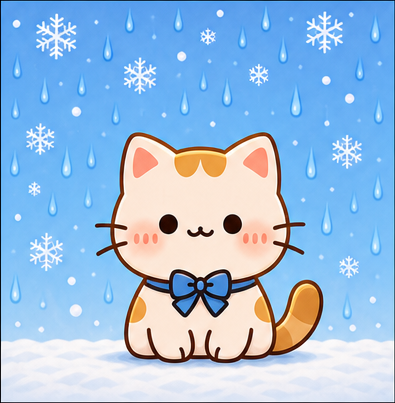
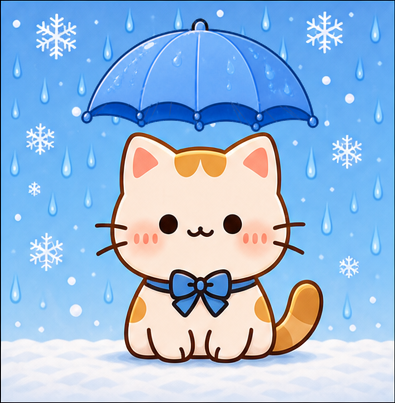
feat: 날씨 현재/7일 예보 조회 및 고양이 이미지 표시 기능 추가 - WeatherSection 추가 (현재 날씨 + 7일 예보 가로 스크롤) - weather_code(WMO) → 고양이 이미지 매핑 상수/유틸 추가 - 날씨 상태 저장용 store, 타입 정의 추가 - weather-api 응답 파싱 보완 - hooks → utils 로 순수 함수 이동 (useRegions → utils/regions) - 홈 화면 ScrollView 적용 - 천둥/비+천둥 고양이 이미지 추가, 진눈깨비 이미지에 우산 합성

Changed region(s): [[0.1823, 0.0298, 0.8203, 0.3275]]

diff --git a/src/constants/weather.ts b/src/constants/weather.ts
@@ -1,0 +1,119 @@
+import { ImageSourcePropType } from "react-native";
+
+/**
+ * Open-Meteo(WMO) weather_code 목록과 한글 설명
+ * https://open-meteo.com/en/docs (WMO Weather interpretation codes)
+ */
+export const WEATHER_CODES: Record<number, string> = {
+  0: "맑음",
+  1: "대체로 맑음",
+  2: "부분적으로 흐림",
+  3: "흐림",
+  45: "안개",
+  48: "짙은(착빙) 안개",
+  51: "약한 이슬비",
+  53: "이슬비",
+  55: "강한 이슬비",
+  56: "약한 어는 이슬비",
+  57: "강한 어는 이슬비",
+  61: "약한 비",
+  63: "비",
+  65: "강한 비",
+  66: "약한 어는 비",
+  67: "강한 어는 비",
+  71: "약한 눈",
+  73: "눈",
+  75: "강한 눈",
+  77: "싸락눈",
+  80: "약한 소나기",
+  81: "소나기",
+  82: "강한 소나기",
+  85: "약한 소낙눈",
+  86: "강한 소낙눈",
+  95: "뇌우",
+  96: "뇌우(약한 우박 동반)",
+  99: "뇌우(강한 우박 동반)",
+};
+
+/** 고양이 일러스트 카테고리 키 */
+export type WeatherImageKey =
+  | "sun"
+  | "cloudy"
+  | "rain"
+  | "rainSnow"
+  | "winter"
+  | "hail"
+  | "thunder"
+  | "rainThunder"
+  | "wind";
+
+/** 카테고리 -> 고양이 이미지 리소스 */
+export const WEATHER_IMAGES: Record<WeatherImageKey, ImageSourcePropType> = {
+  sun: require("@/assets/weather-sun.png"), // 맑음
+  cloudy: require("@/assets/weather-cloudy.png"), // 흐림/안개
+  rain: require("@/assets/weather-rain.png"), // 비/이슬비/소나기
+  rainSnow: require("@/assets/weather-rain-snow.png"), // 진눈깨비/어는 비
+  winter: require("@/assets/weather-winter.png"), // 눈
+  hail: require("@/assets/weather-hail.png"), // 우박(뇌우 동반)
+  thunder: require("@/assets/weather-thunder.png"), // 천둥(비 없는 뇌우) - 코드 직접 매칭 없음
+  rainThunder: require("@/assets/weather-rain-thunder.png"), // 비를 동반한 뇌우
+  wind: require("@/assets/weather-wind.png"), // 강풍 - weather_code 없음(wind_speed로 판단)
+};
+
+/**
+ * weather_code -> 고양이 이미지 카테고리 매칭
+ * 참고:
+ * - weather-thunder(비 없는 천둥)와 weather-wind(강풍)는 WMO weather_code에
+ *   대응되는 코드가 없습니다.
+ *   · 뇌우(95/96/99)는 보통 강수를 동반하므로 rainThunder/hail로 매칭했습니다.
+ *   · 강풍은 weather_code가 아닌 wind_speed_10m 값으로 별도 판단해야 합니다.
+ */
+export const WEATHER_CODE_TO_IMAGE: Record<number, WeatherImageKey> = {
+  // 맑음
+  0: "sun",
+  1: "sun",
+
+  // 구름/안개
+  2: "cloudy",
+  3: "cloudy",
+  45: "cloudy",
+  48: "cloudy",
+
+  // 이슬비
+  51: "rain",
+  53: "rain",
+  55: "rain",
+
+  // 어는 이슬비 -> 진눈깨비
+  56: "rainSnow",
+  57: "rainSnow",
+
+  // 비
+  61: "rain",
+  63: "rain",
+  65: "rain",
+
+  // 어는 비 -> 진눈깨비
+  66: "rainSnow",
+  67: "rainSnow",
+
+  // 눈
+  71: "winter",
+  73: "winter",
+  75: "winter",
+  77: "winter",
+
+  // 소나기
+  80: "rain",
+  81: "rain",
+  82: "rain",
+
+  // 소낙눈
+  85: "winter",
+  86: "winter",
+
+  // 뇌우
+  95: "rainThunder",
+  96: "hail",
+  99: "hail",
+};

diff --git a/src/components/organisms/WeatherSection/index.tsx b/src/components/organisms/WeatherSection/index.tsx
@@ -1,0 +1,67 @@
+import { useWeatherStore } from "@/stores/weather";
+import { getWeatherImage } from "@/utils/weather";
+import { FlatList, Image, Text, View } from "react-native";
+
+const WeatherSection = () => {
+  const { weatherData } = useWeatherStore();
+
+  const checkIsToday = (date: string) => {
+    const today = new Date().toISOString().split("T")[0];
+    return date === today;
+  }
+
+  const formatDate = (date: string) => {
+    if (checkIsToday(date)) {
+      return "오늘";
+    }
+
+    const month = parseInt(date.split("-")[1]);
+    const day = parseInt(date.split("-")[2]);
+    return `${month}/${day}`;
+  }
+
+  if (!weatherData) {
+    return null;
+  }
+
+  return (
+    <View style={{ width: "100%", alignItems: "center" }}>
+      <View style={{ width: "100%", alignItems: "center", gap: 3 }}>
+        <Text style={{ fontSize: 20, fontWeight: "bold" }}>현재 날씨</Text>
+        <Image
+         source={getWeatherImage(weatherData?.current.weatherCode ?? 0)}
+         style={{ width: 80, height: 80, borderRadius: 20 }}
+        />
+        <Text style={{ fontSize: 16, fontWeight: "bold" }}>{weatherData?.current.temperature}</Text>
+      </View>
+      <View style={{ width: "100%", height: 1, backgroundColor: "#A7A7A7", marginVertical: 5 }} />
+      <View style={{ width: "100%", paddingTop: 5 }}>
+        <FlatList
+         data={weatherData?.daily}
+         keyExtractor={(item) => item.date}
+         horizontal
+         showsHorizontalScrollIndicator={false}
+         style={{ width: "100%" }}
+         contentContainerStyle={{ gap: 12, paddingHorizontal: 15 }}
+         renderItem={({ item }) => (
+          <View style={{ alignItems: "center", gap: 4 }}>
+            <Text style={{ fontSize: 16, fontWeight: "bold" }}>{formatDate(item.date)}</Text>
+            <Image source={getWeatherImage(item.weatherCode)} style={{ width: 80, height: 80, borderRadius: 10 }} />
+            <View style={{ flexDirection: "row", gap: 4 }}>
+              <Text style={{ fontSize: 16 }}>최고:</Text>
+              <Text style={{ fontSize: 16, fontWeight: "bold" }}>{item.tempMax}</Text>
+            </View>
+            <View style={{ flexDirection: "row", gap: 4 }}>
+              <Text style={{ fontSize: 16 }}>최저:</Text>
+              <Text style={{ fontSize: 16, fontWeight: "bold" }}>{item.tempMin}</Text>
+            </View>
+          </View>
+         )}
+        />
+      </View>
+    </View>
+  );
+};
+
+
+export default WeatherSection

diff --git a/src/components/molecules/DistrictNameSelectModal/index.tsx b/src/components/molecules/DistrictNameSelectModal/index.tsx
@@ -1,24 +1,22 @@
 import { regions } from "@/constants/regions";
-import { useGetDistrictNameList } from "@/hooks/useRegions";
-import { getWeatherData } from "@/services/weather-api";
+import { getFetchWeatherData } from "@/services/weather-api";
 import { useModalStore } from "@/stores/modalStore";
 import { useRegionsStore } from "@/stores/regionsStore";
+import { useWeatherStore } from "@/stores/weather";
+import { getDistrictNameList } from "@/utils/regions";
 import { FlatList, Modal, Pressable, Text, View } from "react-native";
 
 const DistrictNameSelectModal = () => {
   const { openModal, setOpenModal } = useModalStore();
   const { selectedRegion, setSelectedRegion } = useRegionsStore();
-  
-  const getDistrictNameList = (cityName: string) => {
-    return useGetDistrictNameList(cityName);
-  }
+  const { setWeatherData } = useWeatherStore();
 
   const selectDistrictName = async (districtName: string) => {
     const data = regions.filter(region => region.cityName === selectedRegion?.cityName && region.districtName === districtName);
     setSelectedRegion(data[0]);
     setOpenModal(undefined);
-    const weatherData = await getWeatherData(data[0].lat, data[0].long);
-    
+    const weatherData = await getFetchWeatherData(data[0].lat, data[0].long);
+    setWeatherData(weatherData);
   }
 
   return (

diff --git a/src/app/index.tsx b/src/app/index.tsx
@@ -1,26 +1,32 @@
 import RegionSelectBtns from "@/components/molecules/RegionSelectBtns";
 import Modal from "@/components/organisms/Modal";
+import WeatherSection from "@/components/organisms/WeatherSection";
 import { BACKGROUND_IMAGE } from "@/constants/commons";
-import { ImageBackground, View } from "react-native";
+import { Dimensions, ImageBackground, ScrollView, View } from "react-native";
+
+const SCREEN_HEIGHT = Dimensions.get("window").height;
 
 export default function Index() {
   return (
     <ImageBackground
-    source={BACKGROUND_IMAGE}
-    style={{width: "100%", height: "100%" }}
-    resizeMode="cover"
-  >
-      <View style={{
-          position: "absolute",
-          top: "35%",
-          left: 0,
-          right: 0,
+      source={BACKGROUND_IMAGE}
+      style={{ width: "100%", height: "100%" }}
+      resizeMode="cover"
+    >
+      <View style={{ height: SCREEN_HEIGHT * 0.25 }} />
+      <ScrollView
+        style={{ flex: 1 }}
+        showsVerticalScrollIndicator={false}
+        contentContainerStyle={{
+          paddingBottom: 40,
           paddingHorizontal: 32,
-          gap: 16,}}>
-        
+          gap: 16,
+        }}
+      >
         <RegionSelectBtns />
+        <WeatherSection />
+      </ScrollView>
       <Modal />
-      </View>
     </ImageBackground>
   );
 }

diff --git a/src/services/weather-api.ts b/src/services/weather-api.ts
@@ -1,6 +1,6 @@
 const FORECAST_URL = 'https://api.open-meteo.com/v1/forecast'   
 
-export async function getWeatherData(lat: string, long: string, forecastDays: number = 7) {
+export async function getFetchWeatherData(lat: string, long: string, forecastDays: number = 7) {
  const url = new URL(FORECAST_URL)
  url.searchParams.set('latitude', lat)
  url.searchParams.set('longitude', long)
@@ -17,16 +17,14 @@ export async function getWeatherData(lat: string, long: string, forecastDays: nu
  const json = await res.json()
 
  const current = {
-    temperature: json.current.temperature_2m,
-    weathercode: json.current.weathercode,
-    sunrise: json.current.sunrise,
-    sunset: json.current.sunset,
+    temperature: `${json.current.temperature_2m}°`,
+    weatherCode: json.current.weather_code,
  }
  const daily = json.daily.time.map((date: string, i: number) => ({
     date,
     weatherCode: json.daily.weathercode[i],
-    tempMax: json.daily.temperature_2m_max[i],
-    tempMin: json.daily.temperature_2m_min[i],
+    tempMax: `${json.daily.temperature_2m_max[i]}°`,
+    tempMin: `${json.daily.temperature_2m_min[i]}°`,
  }))
 
  return { current, daily }

diff --git a/src/components/molecules/CityNameSelectModal/index.tsx b/src/components/molecules/CityNameSelectModal/index.tsx
@@ -1,4 +1,4 @@
-import { useGetCityNameList } from "@/hooks/useRegions";
+import { getCityNameList } from "@/utils/regions";
 import { useModalStore } from "@/stores/modalStore";
 import { useRegionsStore } from "@/stores/regionsStore";
 import { FlatList, Modal, Pressable, Text, View } from "react-native";
@@ -6,9 +6,6 @@ import { FlatList, Modal, Pressable, Text, View } from "react-native";
 const CityNameSelectModal = () => {
   const { openModal, setOpenModal } = useModalStore();
   const { setSelectedRegion } = useRegionsStore();
-  const getCityNameList = () => {
-    return useGetCityNameList();
-  }
 
   return (
     <Modal visible={openModal === "CITY_NAME_LIST"} transparent animationType="fade">

diff --git a/src/utils/weather.ts b/src/utils/weather.ts
@@ -1,0 +1,17 @@
+import { ImageSourcePropType } from "react-native";
+import {
+  WEATHER_CODES,
+  WEATHER_CODE_TO_IMAGE,
+  WEATHER_IMAGES,
+} from "@/constants/weather";
+
+/** weather_code에 대한 한글 설명 반환 (없으면 "알 수 없음") */
+export const getWeatherLabel = (code: number): string => {
+  return WEATHER_CODES[code] ?? "알 수 없음";
+};
+
+/** weather_code에 맞는 고양이 이미지 반환 (매칭 없으면 흐림 고양이) */
+export const getWeatherImage = (code: number): ImageSourcePropType => {
+  const key = WEATHER_CODE_TO_IMAGE[code] ?? "cloudy";
+  return WEATHER_IMAGES[key];
+};

diff --git a/src/utils/regions.ts b/src/utils/regions.ts
@@ -1,0 +1,14 @@
+import { regions } from "@/constants/regions";
+
+/** 중복 없는 시/도 이름 목록 */
+export const getCityNameList = (): string[] => {
+  const cityNameList = regions.map((region) => region.cityName);
+  return [...new Set(cityNameList)];
+};
+
+/** 특정 시/도에 속한 시/군/구 이름 목록 */
+export const getDistrictNameList = (cityName: string): string[] => {
+  return regions
+    .filter((region) => region.cityName === cityName)
+    .map((region) => region.districtName);
+};

diff --git a/src/stores/weather.ts b/src/stores/weather.ts
@@ -1,0 +1,12 @@
+import { WeatherData } from "@/types/weather";
+import { create } from "zustand";
+
+export interface WeatherStore {
+    weatherData: WeatherData | null;
+    setWeatherData: (weatherData: WeatherData | null) => void;
+}
+
+export const useWeatherStore = create<WeatherStore>((set) => ({
+    weatherData: null,
+    setWeatherData: (weatherData: WeatherData | null) => set({ weatherData }),
+}));

diff --git a/src/types/weather.ts b/src/types/weather.ts
@@ -1,0 +1,16 @@
+export interface WeatherCurrent {
+    temperature: string;
+    weatherCode: number;
+}
+
+export interface WeatherDaily {
+    date: string;
+    weatherCode: number;
+    tempMax: string;
+    tempMin: string;
+}
+
+export interface WeatherData {
+    current: WeatherCurrent;
+    daily: WeatherDaily[];
+}

diff --git a/src/constants/commons.ts b/src/constants/commons.ts
@@ -1,1 +1,2 @@
-export const BACKGROUND_IMAGE = require("@/assets/images/weather-cat-bg.jpg");
+// export const BACKGROUND_IMAGE = require("@/assets/images/weather-cat-bg.jpg");
+export const BACKGROUND_IMAGE = require("@/assets/images/weather-cat-bg.png");
